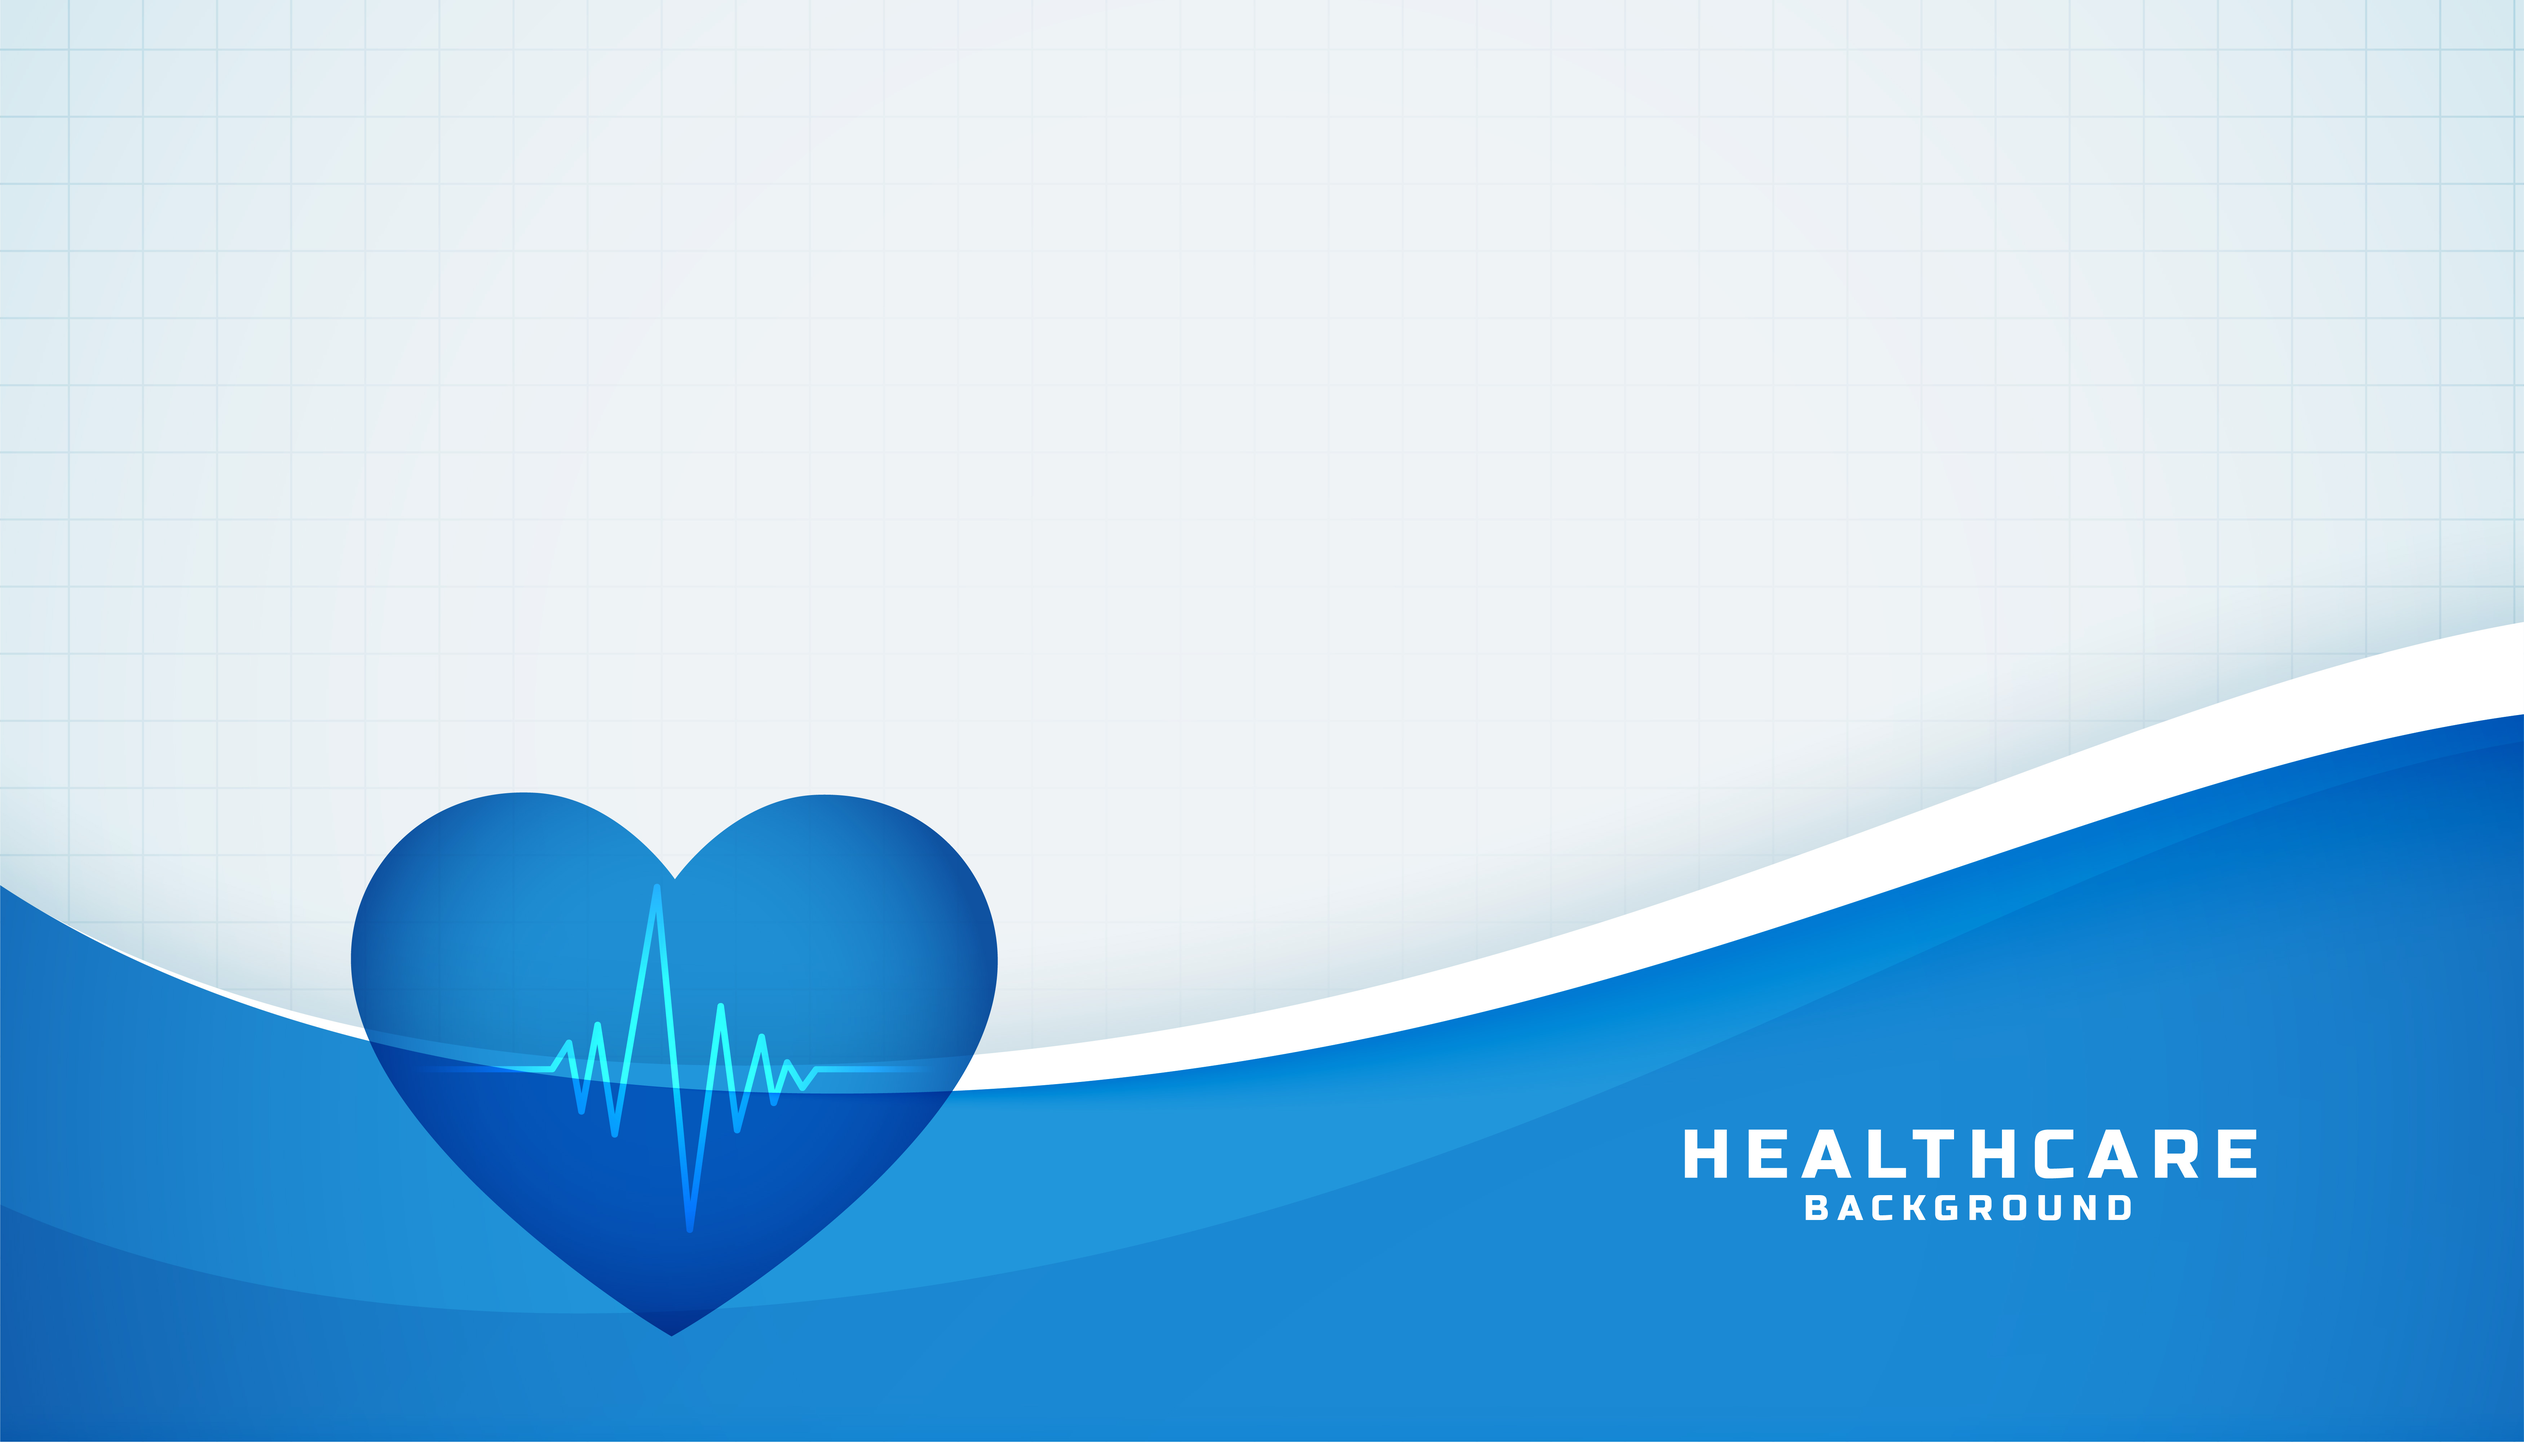
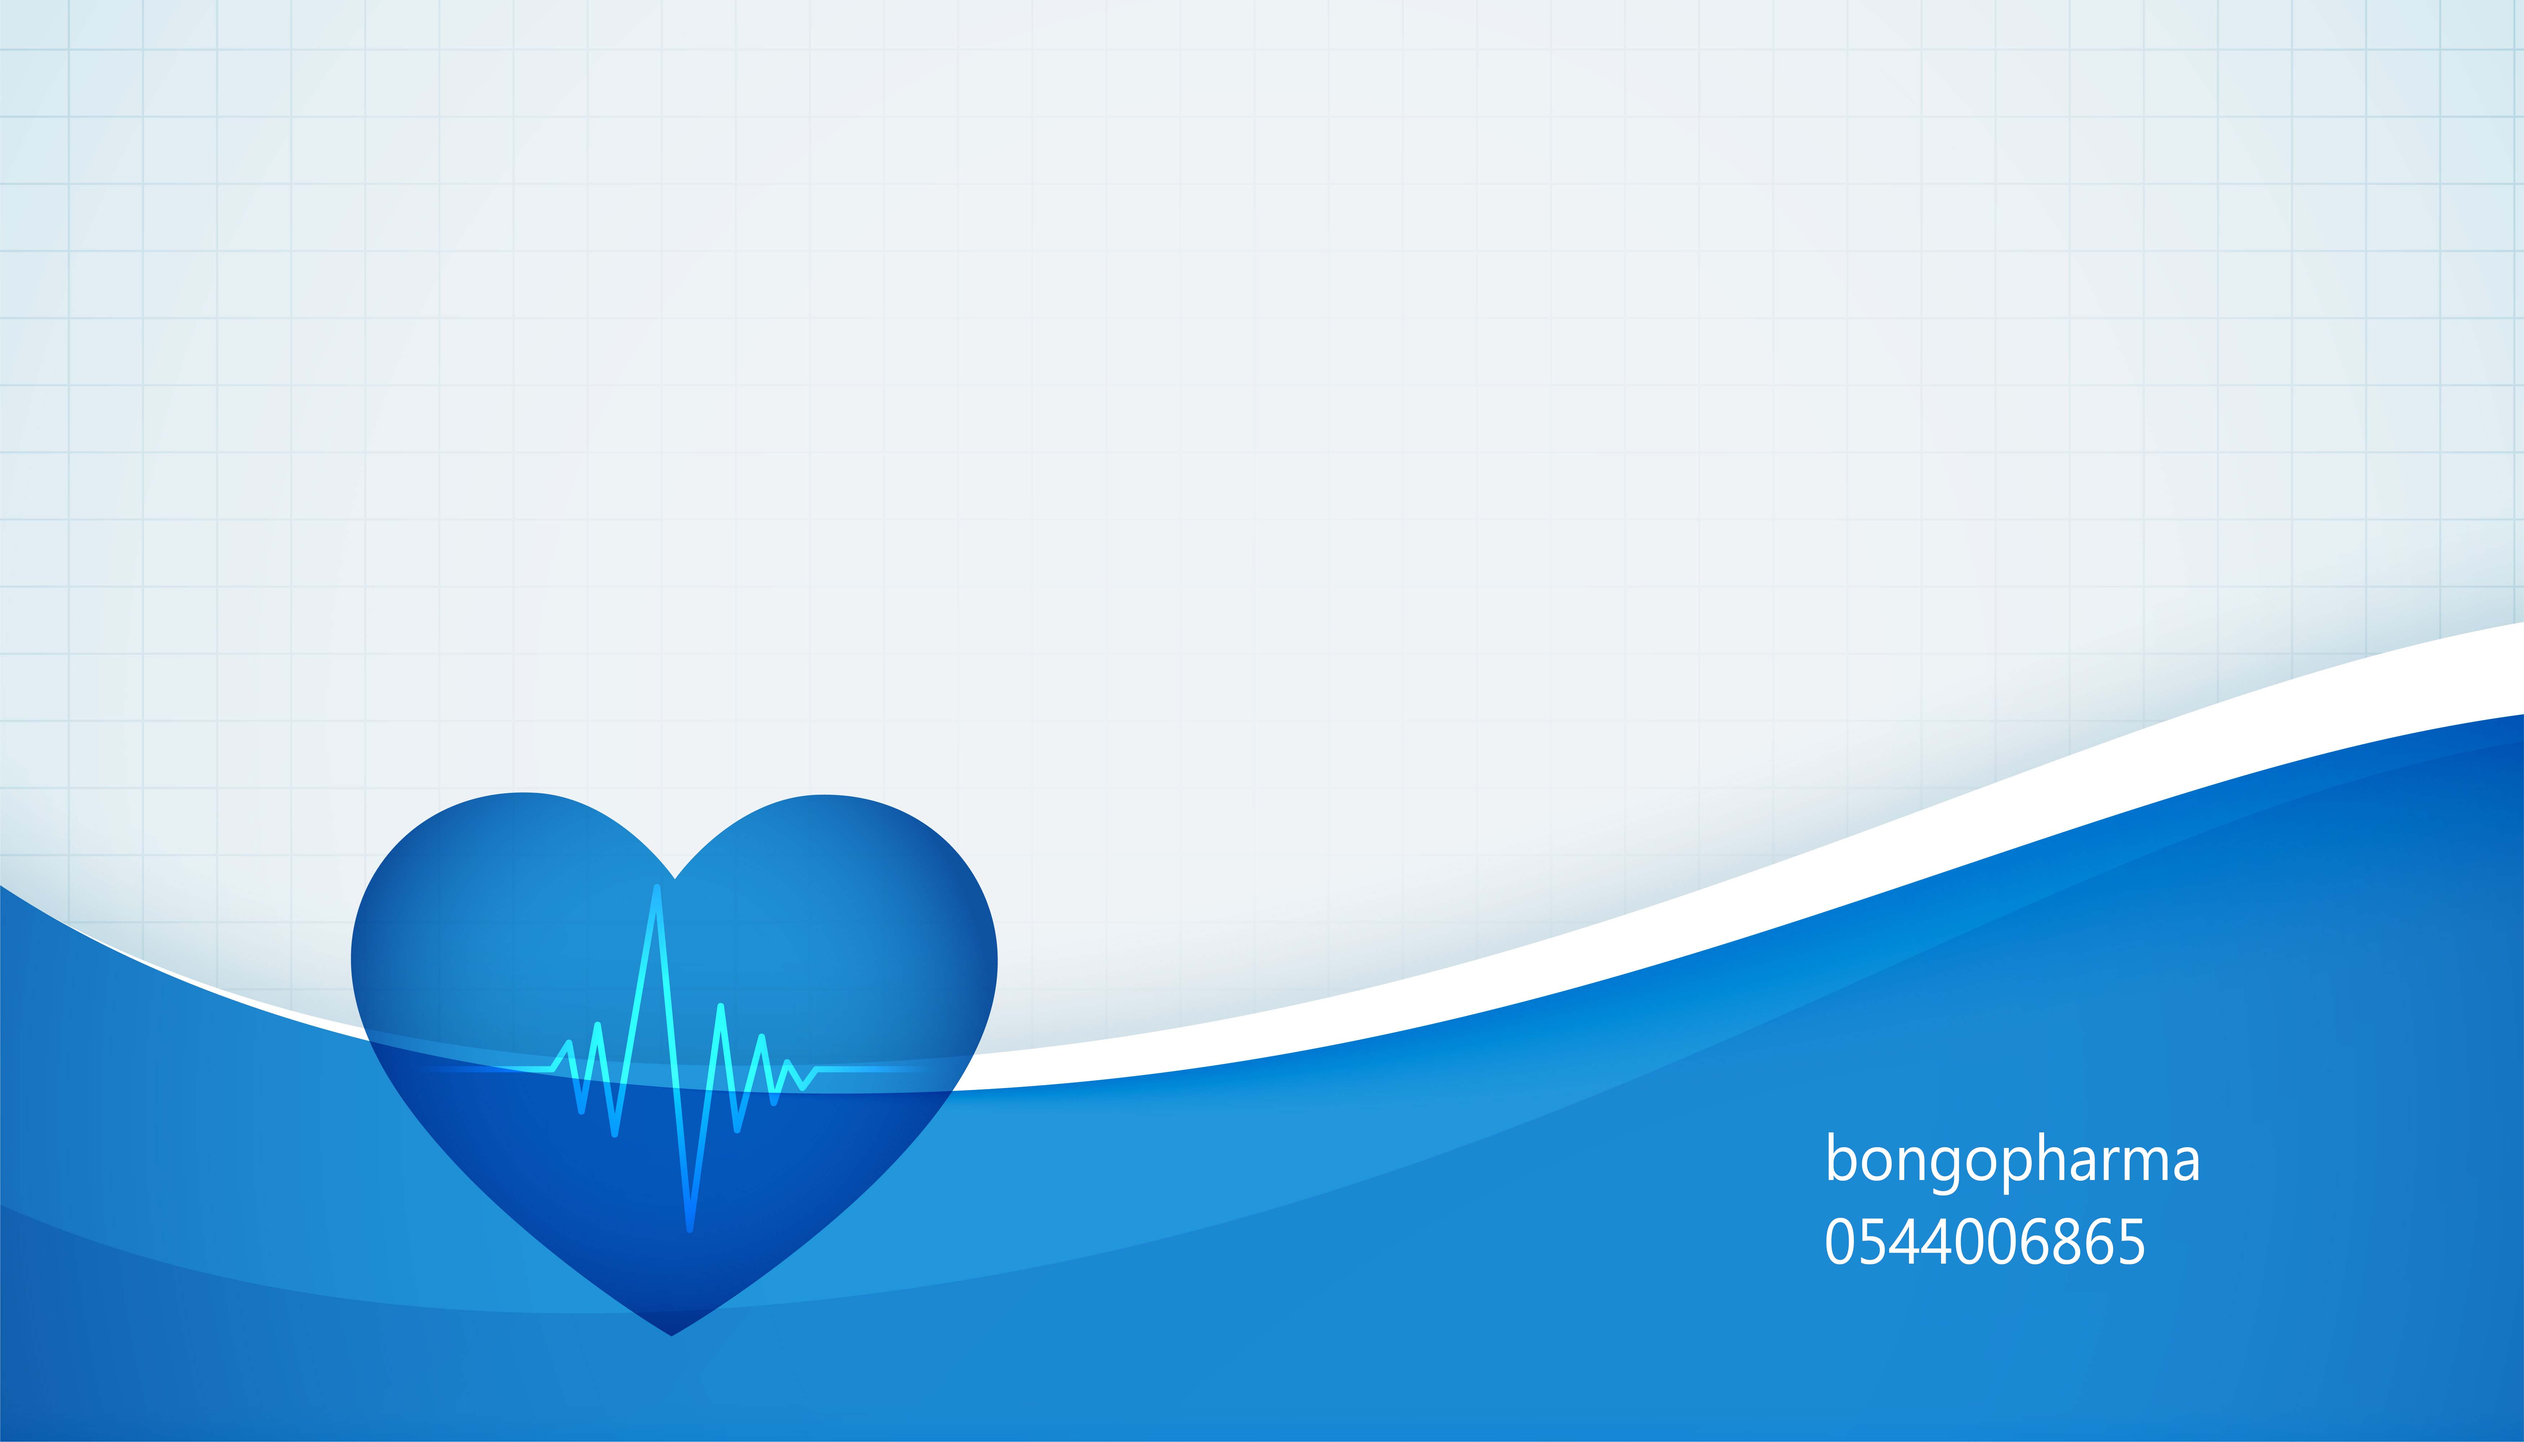
client

Changed region(s): [[0.6539, 0.7811, 0.903, 0.8748]]

diff --git a/client/src/pages/sales/Sales.jsx b/client/src/pages/sales/Sales.jsx
@@ -73,69 +73,71 @@ const Sales = () => {
     setLoading(false);
   };
   return (
-    <div className="dashboard-container">
+    <>
       <Navbar refresh={() => handleRefresh()} />
-      <Loading open={loading} />
-      <div className="dash-left">
-        <QuickStat
-          dailySales={dailySalesFigure}
-          monthlySales={monthlySalesFigure}
-          annualSales={annualSalesFigure}
-          overallSales={totalSalesFigure}
-        />
-        <div className="drugs-container">
-          <div className="drugs-top">
-            <h1 className="heading">
-              Sales History as at <b>{moment().format("dddd DD-MM-yy")}</b>
+      <div className="dashboard-container">
+        <Loading open={loading} />
+        <div className="dash-left">
+          <QuickStat
+            dailySales={dailySalesFigure}
+            monthlySales={monthlySalesFigure}
+            annualSales={annualSalesFigure}
+            overallSales={totalSalesFigure}
+          />
+          <div className="drugs-container">
+            <div className="drugs-top">
+              <h1 className="heading">
+                Sales History as at <b>{moment().format("dddd DD-MM-yy")}</b>
+              </h1>
+            </div>
+            {
+              <DataTable
+                rows={[...salesRecords].sort((a, b) =>
+                  a.createdAt > b.createdAt ? -1 : 1
+                )}
+                columns={salesColumn}
+              />
+            }
+          </div>
+        </div>
+        <div className="dash-right chart">
+          <div className="dash-right-top">
+            <h1 className="heading mb20">
+              Annual Sales Performance Area Chart for {moment().format("yyyy")}
             </h1>
           </div>
-          {
-            <DataTable
-              rows={[...salesRecords].sort((a, b) =>
-                a.createdAt > b.createdAt ? -1 : 1
-              )}
-              columns={salesColumn}
+          <AreaChart
+            width={850}
+            height={400}
+            className="areaChart"
+            data={data}
+            margin={{ top: 10, right: 30, left: 0, bottom: 0 }}
+          >
+            <defs>
+              <linearGradient id="colorUv" x1="0" y1="0" x2="0" y2="1">
+                <stop offset="5%" stopColor="#8884d8" stopOpacity={0.8} />
+                <stop offset="95%" stopColor="#8884d8" stopOpacity={0} />
+              </linearGradient>
+              <linearGradient id="colorPv" x1="0" y1="0" x2="0" y2="1">
+                <stop offset="5%" stopColor="#82ca9d" stopOpacity={0.8} />
+                <stop offset="95%" stopColor="#82ca9d" stopOpacity={0} />
+              </linearGradient>
+            </defs>
+            <XAxis dataKey="name" />
+            <YAxis />
+            <CartesianGrid strokeDasharray="3 3" />
+            <Tooltip />
+            <Area
+              type="monotone"
+              dataKey="sales"
+              stroke="#087a75"
+              fillOpacity={1}
+              fill="#30e6dd1b"
             />
-          }
+          </AreaChart>
         </div>
       </div>
-      <div className="dash-right chart">
-        <div className="dash-right-top">
-          <h1 className="heading mb20">
-            Annual Sales Performance Area Chart for {moment().format("yyyy")}
-          </h1>
-        </div>
-        <AreaChart
-          width={850}
-          height={400}
-          className="areaChart"
-          data={data}
-          margin={{ top: 10, right: 30, left: 0, bottom: 0 }}
-        >
-          <defs>
-            <linearGradient id="colorUv" x1="0" y1="0" x2="0" y2="1">
-              <stop offset="5%" stopColor="#8884d8" stopOpacity={0.8} />
-              <stop offset="95%" stopColor="#8884d8" stopOpacity={0} />
-            </linearGradient>
-            <linearGradient id="colorPv" x1="0" y1="0" x2="0" y2="1">
-              <stop offset="5%" stopColor="#82ca9d" stopOpacity={0.8} />
-              <stop offset="95%" stopColor="#82ca9d" stopOpacity={0} />
-            </linearGradient>
-          </defs>
-          <XAxis dataKey="name" />
-          <YAxis />
-          <CartesianGrid strokeDasharray="3 3" />
-          <Tooltip />
-          <Area
-            type="monotone"
-            dataKey="sales"
-            stroke="#087a75"
-            fillOpacity={1}
-            fill="#30e6dd1b"
-          />
-        </AreaChart>
-      </div>
-    </div>
+    </>
   );
 };
 

diff --git a/client/public/index.html b/client/public/index.html
@@ -2,14 +2,13 @@
 <html lang="en">
   <head>
     <meta charset="utf-8" />
-    <link rel="icon" href="%PUBLIC_URL%/favicon.ico" />
+    <link rel="icon" href="%PUBLIC_URL%/favicon.jpg" />
     <meta name="viewport" content="width=device-width, initial-scale=1" />
     <meta name="theme-color" content="#000000" />
     <meta
       name="description"
-      content="Web site created using create-react-app"
+      content="This is a pharmacy shop management system"
     />
-    <link rel="apple-touch-icon" href="%PUBLIC_URL%/logo192.png" />
     <link
       rel="stylesheet"
       href="https://cdnjs.cloudflare.com/ajax/libs/font-awesome/6.1.1/css/all.css"
@@ -17,34 +16,11 @@
       crossorigin="anonymous"
       referrerpolicy="no-referrer"
     />
-    <!--
-      manifest.json provides metadata used when your web app is installed on a
-      user's mobile device or desktop. See https://developers.google.com/web/fundamentals/web-app-manifest/
-    -->
     <link rel="manifest" href="%PUBLIC_URL%/manifest.json" />
-    <!--
-      Notice the use of %PUBLIC_URL% in the tags above.
-      It will be replaced with the URL of the `public` folder during the build.
-      Only files inside the `public` folder can be referenced from the HTML.
-
-      Unlike "/favicon.ico" or "favicon.ico", "%PUBLIC_URL%/favicon.ico" will
-      work correctly both with client-side routing and a non-root public URL.
-      Learn how to configure a non-root public URL by running `npm run build`.
-    -->
-    <title>React App</title>
+    <title>Bongopharma</title>
   </head>
   <body>
     <noscript>You need to enable JavaScript to run this app.</noscript>
     <div id="root"></div>
-    <!--
-      This HTML file is a template.
-      If you open it directly in the browser, you will see an empty page.
-
-      You can add webfonts, meta tags, or analytics to this file.
-      The build step will place the bundled scripts into the <body> tag.
-
-      To begin the development, run `npm start` or `yarn start`.
-      To create a production bundle, use `npm run build` or `yarn build`.
-    -->
   </body>
 </html>

diff --git a/client/src/pages/dashboard/Dashboard.jsx b/client/src/pages/dashboard/Dashboard.jsx
@@ -15,16 +15,8 @@ import {
 import moment from "moment";
 import { useSelector, useDispatch } from "react-redux";
 import DataTable from "../../components/Table";
-import {
-  drugsStart,
-  drugsSuccess,
-  drugsFailure,
-} from "../../redux/drugs";
-import {
-  salesStart,
-  salesSuccess,
-  salesFailure,
-} from "../../redux/sales";
+import { drugsStart, drugsSuccess, drugsFailure } from "../../redux/drugs";
+import { salesStart, salesSuccess, salesFailure } from "../../redux/sales";
 import {
   TextField,
   Button,
@@ -258,7 +250,6 @@ const Dashboard = () => {
         <DialogContent>
           <DialogContentText>Kindly fill all fields</DialogContentText>
           <TextField
-            autoFocus
             margin="dense"
             label="Drug name"
             type="text"
@@ -340,7 +331,6 @@ const Dashboard = () => {
         <DialogContent>
           <DialogContentText>{name}</DialogContentText>
           <TextField
-            autoFocus
             margin="dense"
             label="Quantity"
             type="number"

diff --git a/api/routes/drugs.js b/api/routes/drugs.js
@@ -1,4 +1,5 @@
 const router = require("express").Router();
+const moment = require("moment");
 // const { set } = require("mongoose");
 const Drug = require("../models/Drug");
 // GET ALL DRUGS
@@ -26,6 +27,8 @@ router.post("/", async (req, res) => {
         dosage,
         price,
         img,
+        createdAt: moment().format("ddd DD/M/YY h:mm:ss"),
+        updatedAt: moment().format("ddd DD/M/YY h:mm:ss"),
         id: Math.floor(10000 + Math.random() * 10000),
       });
       await newDrug.save();

diff --git a/client/src/pages/products/Drugs.jsx b/client/src/pages/products/Drugs.jsx
@@ -167,7 +167,7 @@ const Drugs = () => {
     try {
       const drugs = await request.get("/drugs");
       dispatch(drugsSuccess(drugs.data));
-      window.location.reload()
+      window.location.reload();
     } catch (err) {
       dispatch(drugsFailure());
     }
@@ -228,7 +228,6 @@ const Drugs = () => {
                 }}
               />
               <TextField
-                autoFocus
                 margin="dense"
                 label="Drug name"
                 type="text"

diff --git a/api/models/Drug.js b/api/models/Drug.js
@@ -9,13 +9,7 @@ const drugSchema = new mongoose.Schema({
   dosage: String,
   price: Number,
   img: String,
-  createdAt: {
-    type: String,
-    default: moment(new Date()).format("ddd DD/M/YY h:mm:ss"),
-  },
-  updatedAt: {
-    type: String,
-    default: moment(new Date()).format("ddd DD/M/YY h:mm:ss"),
-  },
+  createdAt: String,
+  updatedAt: String,
 });
 module.exports = mongoose.model("Drug", drugSchema);

diff --git a/api/server.js b/api/server.js
@@ -10,7 +10,7 @@ const moment = require("moment");
 require("dotenv").config();
 // DB CONNECTION
 
-mongoose.connect(process.env.DB_CONNECTION_STRING_ATLAS, (err) => {
+mongoose.connect(process.env.DB_CONNECTION_STRING, (err) => {
   err ? console.log(err.message) : console.log("Connected to DB");
 });
 server.use(express.json());

diff --git a/client/src/request.js b/client/src/request.js
@@ -1,6 +1,6 @@
 import axios from "axios";
-const API_URL = "https://bongopharm.herokuapp.com/";
-// const API_URL = "http://localhost:8000/";
+// const API_URL = "https://bongopharm.herokuapp.com/";
+const API_URL = "http://localhost:8000/";
 export const request = axios.create({
   baseURL: API_URL,
 });

diff --git a/api/models/Sales.js b/api/models/Sales.js
@@ -6,9 +6,6 @@ const salesSchema = new mongoose.Schema({
   drug_name: String,
   quantity: Number,
   cost: Number,
-  createdAt: {
-    type: String,
-    default: moment(new Date()).format("ddd D/M/YY h:mm:ss"),
-  },
+  createdAt: String,
 });
 module.exports = mongoose.model("Sales", salesSchema);

diff --git a/api/routes/sales.js b/api/routes/sales.js
@@ -23,6 +23,7 @@ router.post("/", async (req, res) => {
         drug_name,
         quantity,
         cost,
+        createdAt: moment().format("ddd DD/M/YY h:mm:ss"),
       });
       await newSales.save();
       await drug.updateOne({ stock: drug.stock - quantity });
